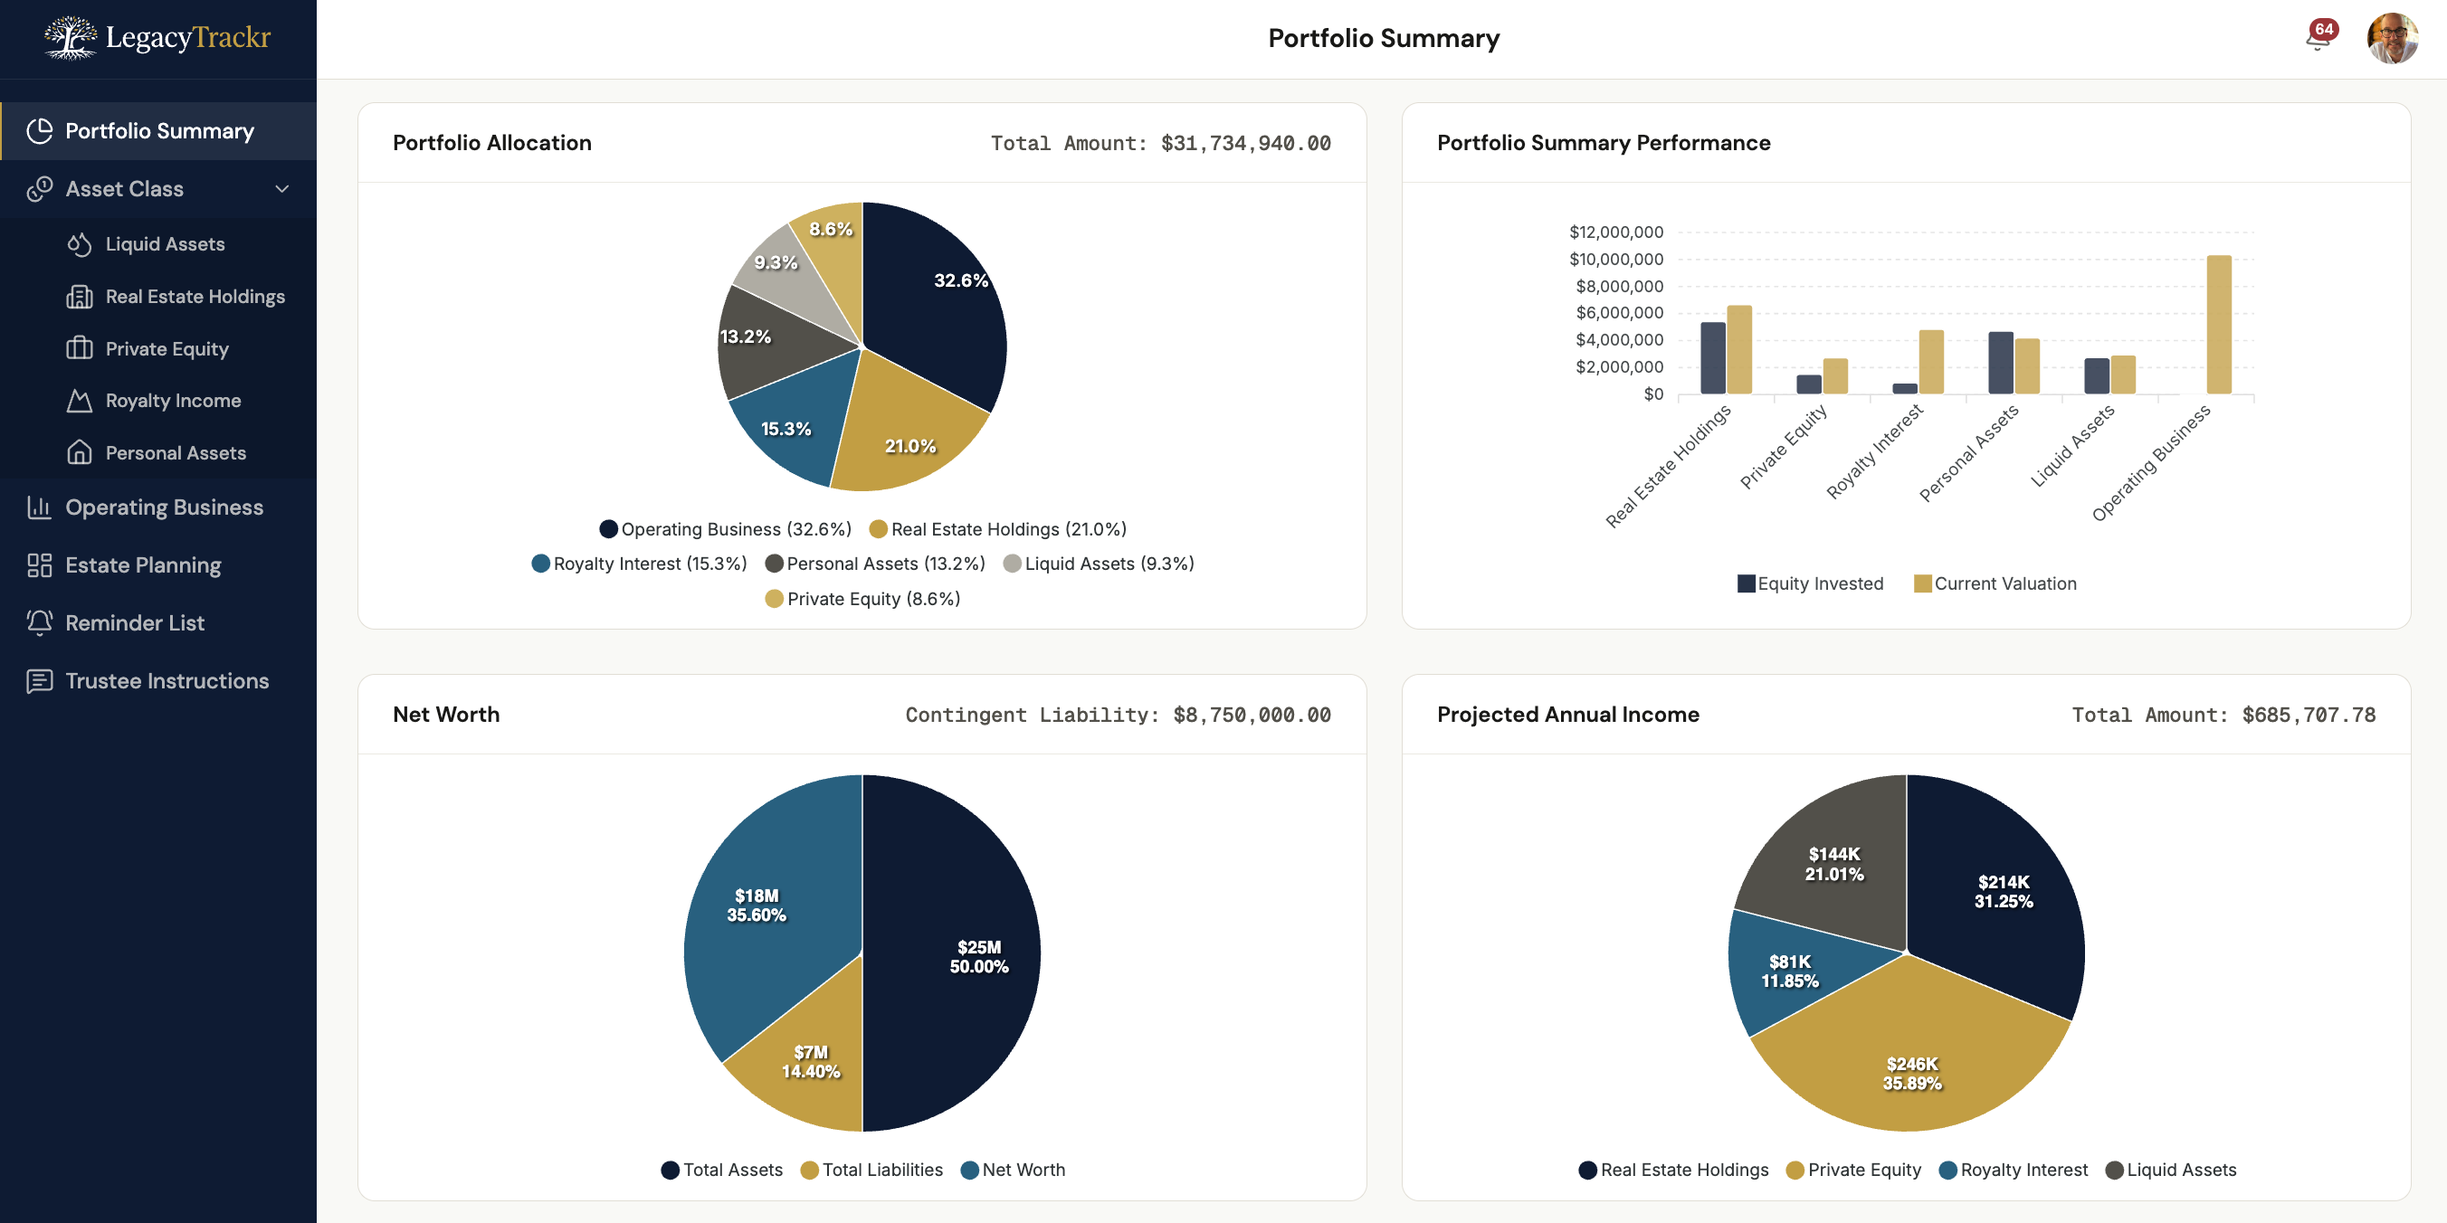
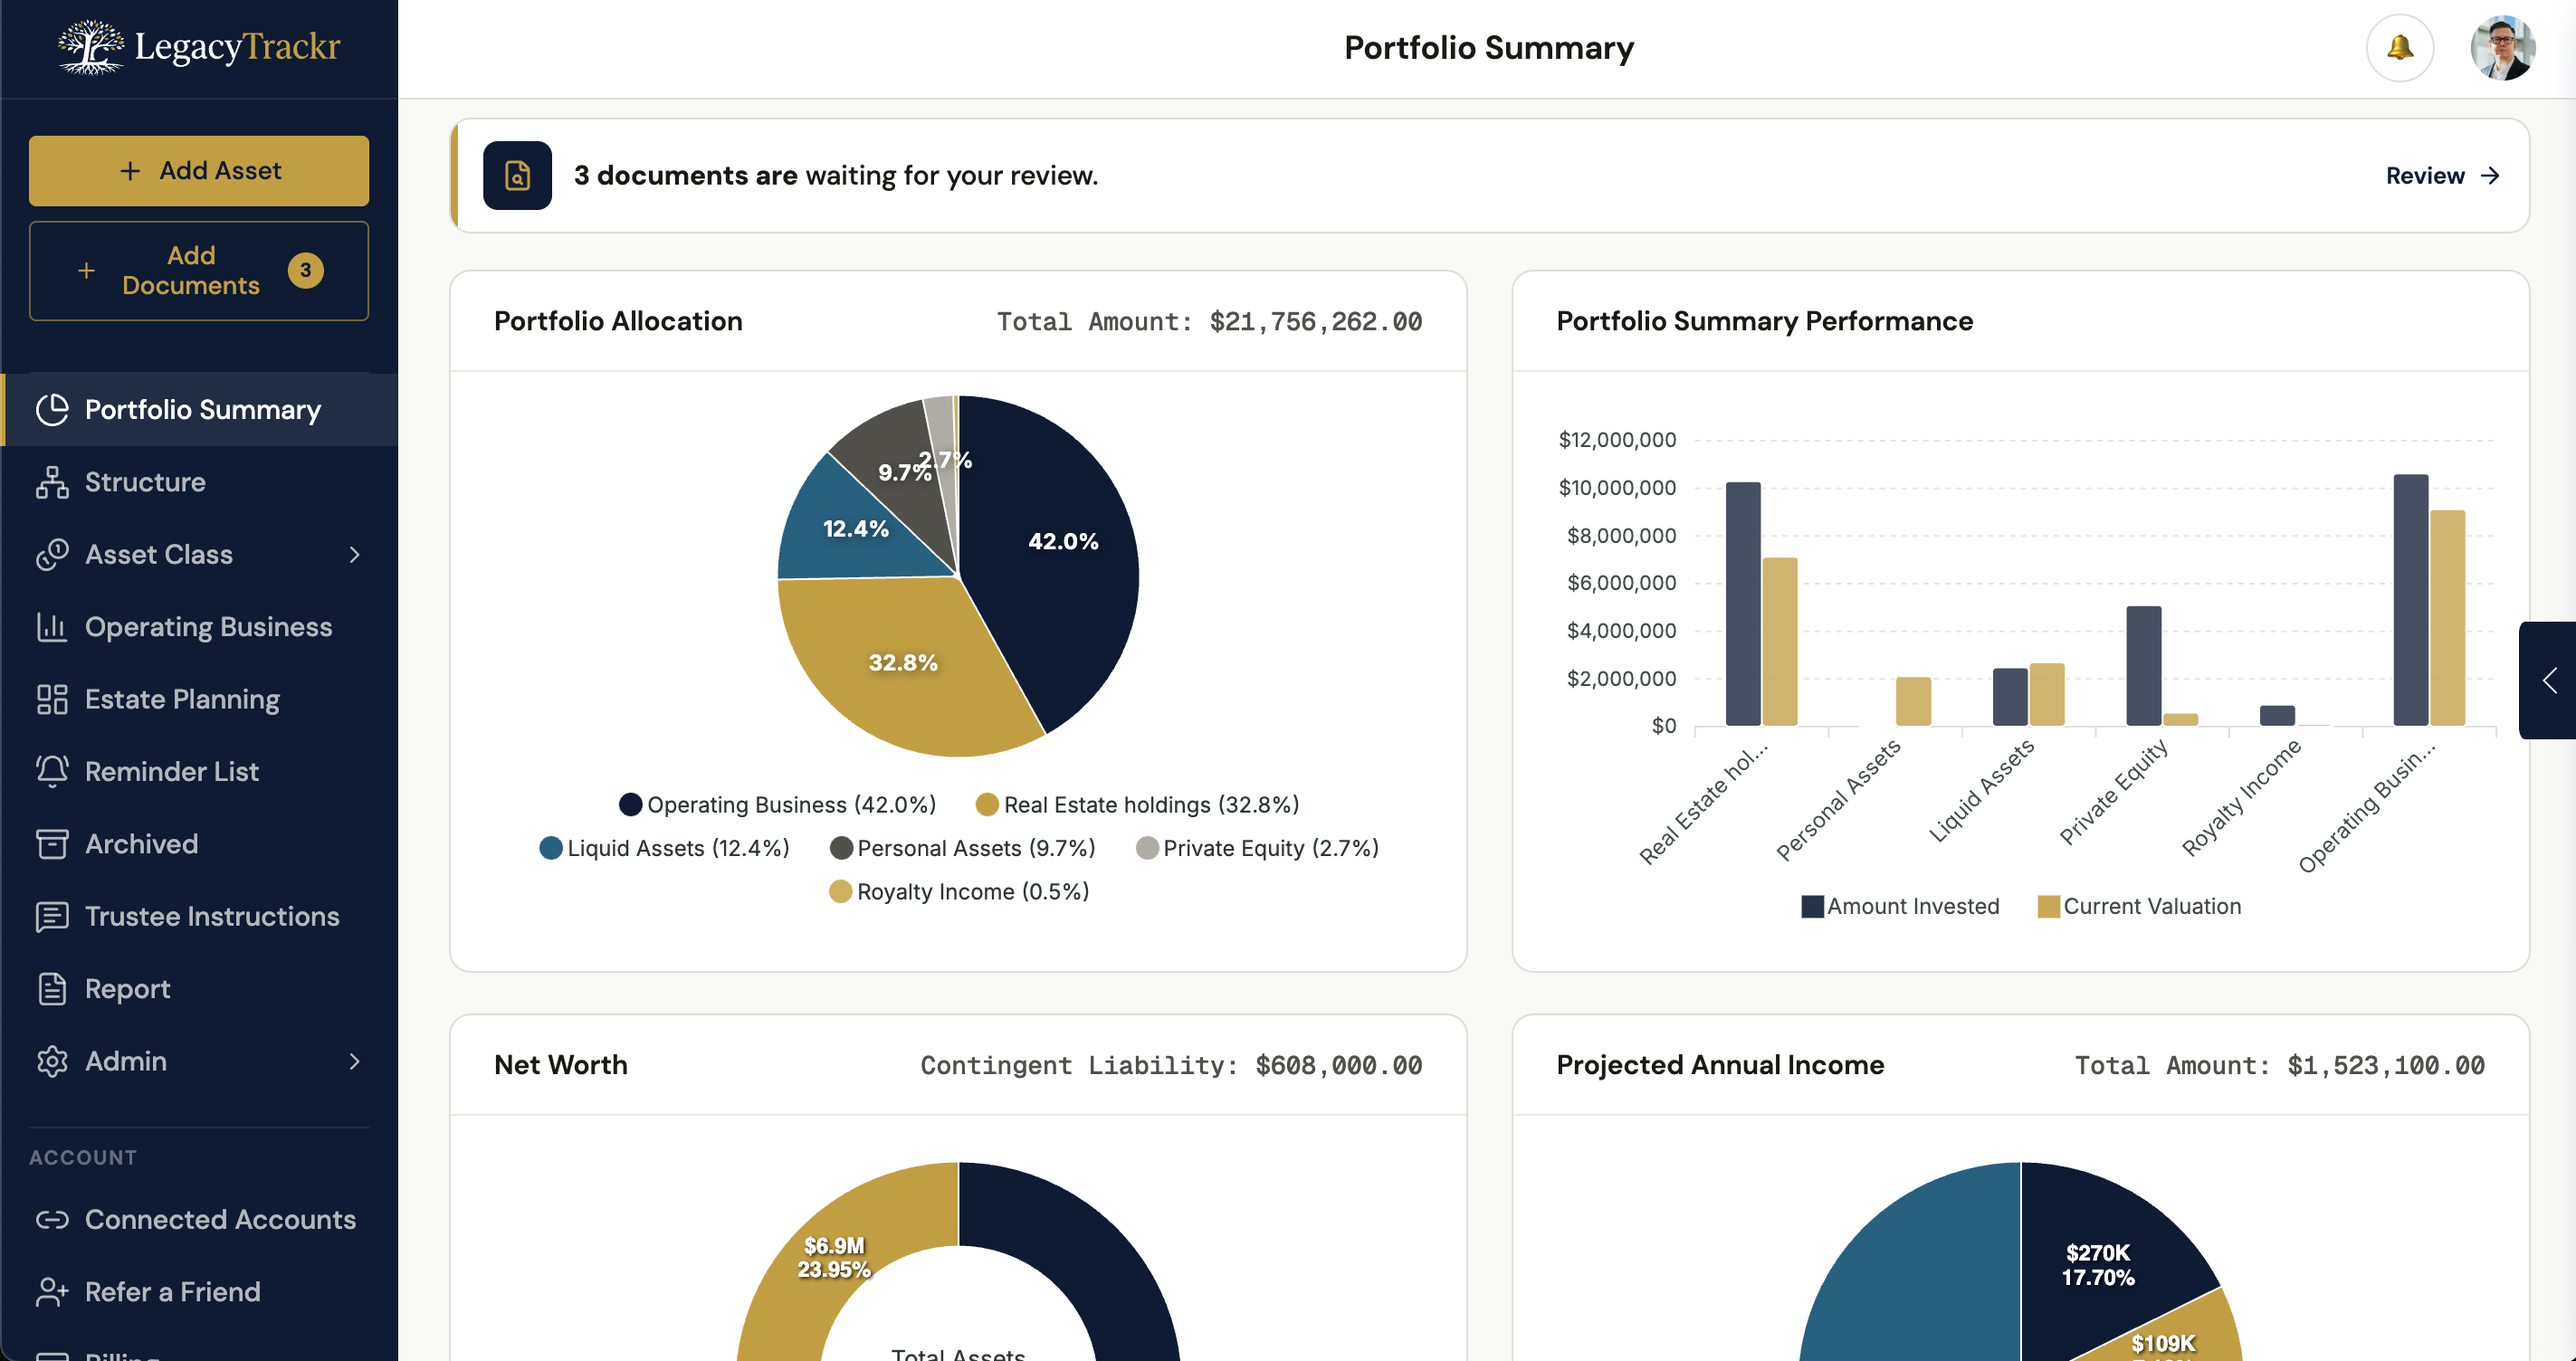
Homepage: clearer copy, structure and entity screenshots, AI early-access band

diff --git a/index.html b/index.html
@@ -754,6 +754,7 @@ body {
 
 /* ========== RESPONSIVE ========== */
 @media (max-width: 768px) {
+  .br-desktop { display: none; }
   .nav { padding: 0 24px; }
   .nav-hamburger { display: flex; }
   .nav-links {
@@ -799,6 +800,35 @@ body {
   .footer-row { flex-direction: column; gap: 20px; }
   .footer-links { flex-wrap: wrap; justify-content: center; }
 }
+.shot-caption {
+  margin: 10px 2px 0;
+  font-size: 13px;
+  line-height: 1.5;
+  color: var(--text-muted);
+}
+.ai-band {
+  background: var(--navy);
+  padding: 88px 48px;
+  text-align: center;
+}
+.ai-band .eyebrow { color: var(--gold); }
+.ai-band-date {
+  margin-left: 10px;
+  padding-left: 10px;
+  border-left: 1px solid rgba(255,255,255,0.25);
+  color: rgba(255,255,255,0.6);
+}
+.ai-band .ai-name { color: var(--gold); }
+.ai-band .section-heading {
+  color: #FFFFFF;
+  max-width: 640px;
+  margin: 0 auto 20px;
+}
+.ai-band .section-body {
+  max-width: 640px;
+  margin: 0 auto;
+  color: rgba(255,255,255,0.72);
+}
 </style>
   <!-- Meta Pixel (self-disabling until PIXEL_ID is set in lt-pixel.js) -->
   <script src="/lt-pixel.js?v=2"></script>
@@ -819,7 +849,7 @@ body {
     <li><a href="#pricing">Pricing</a></li>
     <li><a href="/partners">For Partners</a></li>
     <li><a href="https://app.legacytrackr.com/login" class="nav-login">Log In</a></li>
-    <li><a href="/familyclarity?src=homepage_nav" class="btn-nav">Take the Assessment</a></li>
+    <li><a href="/demo.html?src=homepage_nav" class="btn-nav">Request a Demo</a></li>
   </ul>
 </nav>
 
@@ -827,13 +857,12 @@ body {
 <section class="hero">
   <div class="hero-content">
     <h1>The greatest gift you leave behind is not money. It is clarity for those you love.</h1>
-    <div class="hero-mission">LegacyTrackr turns financial complexity into family clarity that can be preserved and carried forward across generations.</div>
+    <div class="hero-mission">Every account, entity, property and document your family owns, in one place. With all the context anyone would ever need, whether that's your spouse, a child, your estate attorney or your wealth manager.</div>
     <div class="hero-actions">
       <a href="/demo.html?src=homepage_hero" class="btn-primary">
         Request a Demo
         <svg viewBox="0 0 24 24" stroke-linecap="round" stroke-linejoin="round"><path d="M5 12h14"/><path d="m12 5 7 7-7 7"/></svg>
       </a>
-      <a href="/familyclarity?src=homepage_hero" class="btn-secondary">Take the Family Clarity Assessment</a>
     </div>
   </div>
   <div class="hero-screenshot">
@@ -855,11 +884,18 @@ body {
       <div class="eyebrow">The Problem</div>
       <h2 class="section-heading">Nobody else sees the full picture.</h2>
       <p class="section-body">Right now, you are the only person who could step in and make sense of everything.</p>
+      <p class="section-body">Today that picture lives in a spreadsheet, and a spreadsheet only makes sense to the person who built it.</p>
       <p class="section-body">Not your spouse. Not your advisor. Not your attorney.</p>
-      <p class="section-body">If something happened, they would be starting from zero. Piecing together accounts, entities, and documents under pressure.</p>
+      <p class="section-body">If something happened, they would be starting from zero, piecing together accounts, entities, and documents under pressure.</p>
       <p class="section-body">And in that moment, this stops being about organization. It becomes about whether they can act without confusion.</p>
     </div>
   </div>
+</section>
+
+<!-- FOUNDER QUOTE -->
+<section class="quote-section">
+  <div class="quote-text">"I realized that 20+ investments, multiple entities, and real estate across two states all made perfect sense to me. But only to me. If my family, my attorney, or my accountant ever needed the full picture, they'd be starting from zero."</div>
+  <div class="quote-attr"><strong>Steve McKeever</strong>, Founder</div>
 </section>
 
 <!-- PLATFORM -->
@@ -867,13 +903,16 @@ body {
   <div class="platform-grid">
     <div>
       <div class="eyebrow">The Platform</div>
-      <h2 class="section-heading">Your entire financial life, in one place.</h2>
-      <p class="section-body">LegacyTrackr does the record-keeping heart of a family office's job, as software: every asset class, entity structure, and critical document in a single dashboard.</p>
-      <p class="section-body">See your full allocation, track what matters, and know the complete picture exists somewhere secure, structured, and accessible beyond a single file or device.</p>
+      <h2 class="section-heading">The family office record, without the family office.</h2>
+      <p class="section-body">Net worth is the easy part. The context around it is what nobody else could reconstruct: what each asset is, which entity holds it, who manages it, and where the documents are.</p>
+      <p class="section-body">A personal financial statement when the bank asks for one. A report before the meeting with your advisor. The operating agreement, without searching an inbox. And the structure chart, when it's time to walk your children through how it all fits together.</p>
+      <p class="section-body">The portal your wealth manager gives you shows what they manage. This holds all of it, across every advisor, every entity and everything nobody manages, and it stays with you when an advisor changes. Invite them in; the record is still yours.</p>
     </div>
     <div class="platform-visual">
-      <img src="images/screenshot-estate-allocation.png" alt="Portfolio allocation across asset classes with dollar amounts" style="width: 100%; border-radius: 8px;">
-      <img src="images/screenshot-pe-performance.png" alt="Private equity performance showing invested vs current value" style="width: 100%; border-radius: 8px; margin-top: 16px;">
+      <img src="images/screenshot-structure.png" alt="Ownership structure chart: a household, its revocable trust, an LLC beneath the trust, and the assets each one holds" style="width: 100%; border-radius: 8px;">
+      <p class="shot-caption">Trusts, LLCs and the assets beneath them, in one view.</p>
+      <img src="images/screenshot-entity-detail.png" alt="Entity detail panel for a family trust showing type, governing law, grantors, trustee, successor trustee and estate flags" style="width: 100%; border-radius: 8px; margin-top: 24px;">
+      <p class="shot-caption">Open any entity and the context is there: who holds it, who runs it, what's in the estate.</p>
     </div>
   </div>
 </section>
@@ -884,17 +923,18 @@ body {
     <div style="text-align: center; margin-bottom: 48px;">
       <div class="eyebrow">How It Works</div>
       <h2 class="section-heading">Three steps to a complete picture.</h2>
+      <p class="section-body" style="max-width: 640px; margin: 16px auto 0;">You don't build this alone. Build it with your accountant or advisor, or let us guide you or them through it. Or let LegacyTrackr AI do the heavy lifting: drag and drop your documents, or forward them from your email (from December 2026).</p>
     </div>
     <div class="how-grid">
       <div class="how-card">
         <div class="how-number">01</div>
         <h3>Add your assets.</h3>
-        <p>Every asset class: liquid investments, real estate, private equity, operating businesses, digital assets, personal property, royalties. Link brokerage and bank balances or enter them yourself, with as much or as little detail as you want. Our onboarding team walks through it with you.</p>
+        <p>Private equity, real estate, operating businesses, royalties, digital assets: the things no brokerage login can see. Enter them with as much or as little detail as you want, and link bank and brokerage balances alongside. Do it yourself, or have a person walk through it with you.</p>
       </div>
       <div class="how-card">
         <div class="how-number">02</div>
         <h3>Organize your structure.</h3>
-        <p>Document your entities (trusts, LLCs, LPs, foundations) and which assets they hold. See the full ownership picture in one view.</p>
+        <p>Add your trusts, LLCs, LPs and foundations, then connect the assets each one holds. See the whole ownership structure in one chart, and open any entity or asset from it.</p>
       </div>
       <div class="how-card">
         <div class="how-number">03</div>
@@ -905,20 +945,21 @@ body {
   </div>
 </section>
 
+<!-- AI -->
+<section class="ai-band">
+  <div class="eyebrow">Early access December 2026</div>
+  <h2 class="section-heading"><span class="ai-name">LegacyTrackr AI</span> files the paperwork. <br class="br-desktop">You approve it.</h2>
+  <p class="section-body">Email a document, forward one, or drag it into the platform. LegacyTrackr AI figures out where it belongs, filing a K-1 against the right fund or setting up a new asset. Nothing changes until you say so.</p>
+</section>
+
 <!-- WHY IT MATTERS -->
 <section class="section why-section">
   <div class="why-inner">
     <div class="eyebrow">Beyond Organization</div>
-    <h2 class="section-heading">Document your playbook. Share it on your terms.</h2>
+    <h2 class="section-heading">An instruction manual for your wealth, <br class="br-desktop">so it carries forward.</h2>
     <p class="section-body">Right now, you know where everything is. You know who manages what, which entities hold which assets, and where the documents are. That knowledge has real value: to your family, your partners, and your advisors.</p>
-    <p class="section-body">LegacyTrackr makes sure that knowledge lives somewhere accessible, not just in your head. So when anyone needs it, for tax season, estate planning, a liquidity event, or a transition, it's there.</p>
+    <p class="section-body">LegacyTrackr makes sure that knowledge lives somewhere accessible, not just in your head. The K-1, the operating agreement, the deed: attached to the thing it describes, not lost in an inbox. So when anyone needs it, for tax season, estate planning, a liquidity event, or a transition, it's there.</p>
   </div>
-</section>
-
-<!-- FOUNDER QUOTE -->
-<section class="quote-section">
-  <div class="quote-text">"I realized that 20+ investments, multiple entities, and real estate across two states all made perfect sense to me. But only to me. If my family, my attorney, or my accountant ever needed the full picture, they'd be starting from zero."</div>
-  <div class="quote-attr"><strong>Steve McKeever</strong>, Founder</div>
 </section>
 
 <!-- SECURITY -->
@@ -957,7 +998,7 @@ body {
     <div class="pricing-center">
       <div class="eyebrow">Founding Member Pricing</div>
       <h2 class="section-heading">One plan. Full access. White-glove onboarding.</h2>
-      <p class="section-body" style="max-width: 520px; margin: 0 auto;">No tiers. No feature gating. Every founding member gets the complete platform with dedicated onboarding support.</p>
+      <p class="section-body" style="max-width: 520px; margin: 0 auto;">No tiers. No feature gating. Every founding member gets the complete platform. Set it up yourself, privately, at your own pace. Or book one-to-one time with a person who walks you through it, on a screen share you start, so they see only what you show them. Both are included.</p>
     </div>
 
     <div class="pricing-card">
@@ -973,7 +1014,7 @@ body {
         </div>
         <div class="pricing-feature">
           <svg viewBox="0 0 24 24" stroke-linecap="round" stroke-linejoin="round"><polyline points="20 6 9 17 4 12"/></svg>
-          White-glove onboarding included: 2.5 hours on annual, 1 hour on monthly
+          One-to-one onboarding if you want it: 2.5 hours on annual, 1 hour on monthly
         </div>
         <div class="pricing-feature">
           <svg viewBox="0 0 24 24" stroke-linecap="round" stroke-linejoin="round"><polyline points="20 6 9 17 4 12"/></svg>
@@ -986,18 +1027,8 @@ body {
         <a href="https://app.legacytrackr.com/signup?src=homepage_pricing" class="pricing-cta">Start Signup</a>
       </div>
     </div>
-    <p class="pricing-note"><a href="/demo.html?src=homepage_pricing">Prefer to talk first? Book a walkthrough.</a><br>Have a referral code or coupon? Apply it at checkout.</p>
+    <p class="pricing-note"><a href="/demo.html?src=homepage_pricing">Prefer to talk first? Book a walkthrough.</a><br>Have a referral code or coupon? Apply it at checkout.<br>Not sure yet? <a href="/familyclarity?src=homepage_pricing">Start with the Family Clarity Assessment.</a></p>
   </div>
-</section>
-
-<!-- FINAL CTA -->
-<section class="final-cta">
-  <h2>Your complete financial picture.<br>Organized. Accessible. Secure.</h2>
-  <p>Book a walkthrough and see whether LegacyTrackr fits your family.</p>
-  <a href="/demo.html?src=homepage_final" class="btn-primary">
-    Request a Demo
-    <svg viewBox="0 0 24 24" stroke-linecap="round" stroke-linejoin="round"><path d="M5 12h14"/><path d="m12 5 7 7-7 7"/></svg>
-  </a>
 </section>
 
 <!-- FOOTER -->
